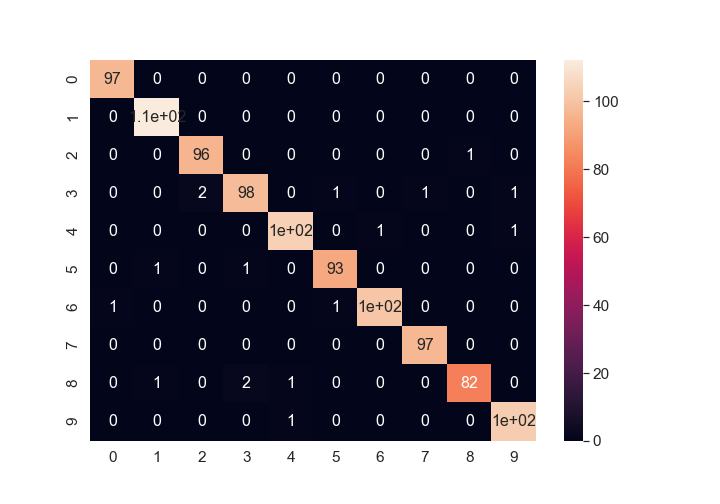
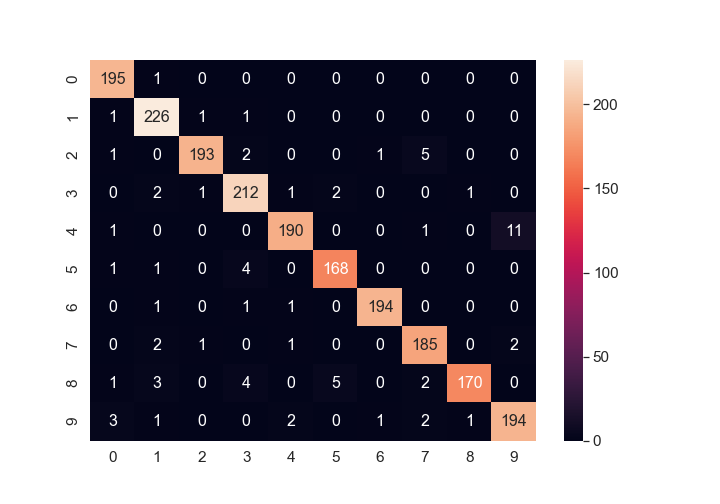
formatted confusion matrix

diff --git a/src/KNearest.py b/src/KNearest.py
@@ -27,10 +27,11 @@ trainY = labels[:20000]
 learning.fit(trainX, trainY)
 
 # Test on the next 1000 images
-testX = images[10000:11000]
-expected = labels[10000:11000].tolist()
+testX = images[20000:22000]
+expected = labels[20000:22000].tolist()
 predicted = learning.predict(testX)
 
+# Print the accuracy score
 print("K Nearest Neighbours accuracy: ", accuracy_score(expected, predicted))
 
 confusion=metrics.confusion_matrix(expected,predicted)
@@ -41,7 +42,8 @@ plt.matshow(confusion, cmap='binary')
 df = pd.DataFrame(confusion, range(10), range(10))
 plt.figure(figsize=(10,7))
 sn.set(font_scale=1.4) # for label size
-confFig = sn.heatmap(df, annot=True, annot_kws={"size": 16}) # font size
+confFig = sn.heatmap(df, annot=True, fmt="d", annot_kws={"size": 16})
+
 # Save figure to file
 fig = confFig.get_figure()
 fig.savefig("KNearest.png")
